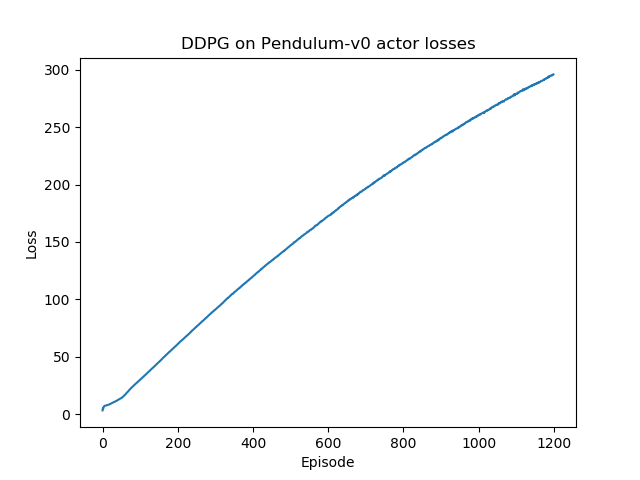
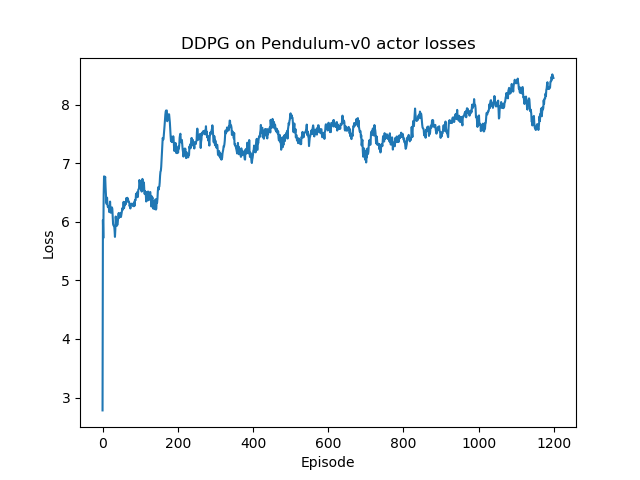
adding back in epsilon exploration

diff --git a/ddpg.swift b/ddpg.swift
@@ -269,41 +269,37 @@ class ActorCritic {
     stateSize: Int,
     actionSize: Int,
     critic_lr: Float = 0.0001,
-    actor_lr: Float = 0.00001,
+    actor_lr: Float = 0.0001,
     gamma: Float = 0.95) {
       self.actor_network = actor
       self.critic_network = critic
       self.target_critic_network = critic_target
       self.target_actor_network = actor_target
       self.gamma = gamma
-      self.action_noise = GaussianNoise(standardDeviation: 0.2)
-      // self.lr = learning_rate
+      self.action_noise = GaussianNoise(standardDeviation: 0.0)
       self.state_size = stateSize
       self.action_size = actionSize
       self.actor_optimizer = Adam(for: self.actor_network, learningRate: actor_lr)
       self.critic_optimizer = Adam(for: self.critic_network, learningRate: critic_lr)
-      self.replayBuffer = ReplayBuffer(capacity: 5000, combined: false)
+      self.replayBuffer = ReplayBuffer(capacity: 1500, combined: false)
   }
 
   func remember(state: Tensor<Float>, action: Tensor<Float>, reward: Tensor<Float>, next_state: Tensor<Float>, dones: Tensor<Bool>) {
     self.replayBuffer.append(state:state, action:action, reward:reward, nextState:next_state, isDone:dones)
   }
 
-  func get_action(state: Tensor<Float>, env: TensorFlowEnvironmentWrapper, training: Bool, random_sample: Bool = false) -> Tensor<Float> {
-    if random_sample {
-      let action = env.action_sample()
-      return action
+  func get_action(state: Tensor<Float>, env: TensorFlowEnvironmentWrapper, training: Bool) -> Tensor<Float> {
+
+    let tfState = Tensor<Float>(numpy: np.expand_dims(state.makeNumpyArray(), axis: 0))!
+    let net_action: Tensor<Float> = self.actor_network(tfState)
+    if training {
+      let noisy_action = withoutDerivative(at: self.action_noise(net_action))
+      let action = noisy_action.clipped(min:-2.0, max:2.0)
+      return action[0]
     } else {
-      let tfState = Tensor<Float>(numpy: np.expand_dims(state.makeNumpyArray(), axis: 0))!
-      let net_action: Tensor<Float> = self.actor_network(tfState)
-      if training {
-        let noisy_action = withoutDerivative(at: self.action_noise(net_action))
-        let action = noisy_action.clipped(min:-2.0, max:2.0)
-        return action[0]
-      } else {
-        return net_action[0]
-      }
+      return net_action[0]
     }
+
   }
 
   func train_actor_critic(batchSize: Int, iterationNum: Int) -> (Float, Float) {
@@ -311,29 +307,25 @@ class ActorCritic {
     let (states, actions, rewards, nextstates, dones) = self.replayBuffer.sample(batchSize: batchSize)
     //train critic
     let(critic_loss, critic_gradients) = valueWithGradient(at: critic_network) { critic_network -> Tensor<Float> in
-      let npFullIndices = np.stack(
-        [np.arange(batchSize, dtype: np.int32)], axis: 1)
-      let tfFullIndices = Tensor<Int32>(numpy: npFullIndices)!
-      let predicted_q_values = critic_network([states, actions])
-      let predicted_q_values_batch = predicted_q_values.dimensionGathering(atIndices: tfFullIndices)
-
-      //let target_actions = self.target_actor_network(nextstates)
-      let next_state_q_values = withoutDerivative(at: self.target_critic_network([nextstates, self.target_actor_network(nextstates)]))
-      let target_q_values: Tensor<Float> = rewards + self.gamma * (1 - Tensor<Float>(dones)) * next_state_q_values
-      let td_error: Tensor<Float> = target_q_values - predicted_q_values_batch
-      let td_loss: Tensor<Float> = 0.5*pow(td_error, 2)
-      return td_loss.mean()
+      let predicted_q_values = critic_network([states, actions]).flattened()
+      //get target q values from target critic network
+      let next_state_q_values: Tensor<Float> = self.target_critic_network([nextstates, self.target_actor_network(nextstates)]).flattened()
+      let target_q_values: Tensor<Float> = withoutDerivative(at: rewards + self.gamma * (1 - Tensor<Float>(dones)) * next_state_q_values)
+      //let td_error: Tensor<Float> = target_q_values - predicted_q_values
+      let td_error: Tensor<Float> = squaredDifference(target_q_values, predicted_q_values)
+      let td_loss: Tensor<Float> = td_error.mean()
+      //let td_loss: Tensor<Float> = 0.5*pow(td_error, 2)
+      return td_loss
       //return huberLoss(predicted: predicted_q_values_batch, expected: target_q_values, delta: 2.5).mean()
     }
     self.critic_optimizer.update(&self.critic_network, along: critic_gradients)
     //train actor
     let(actor_loss, actor_gradients) = valueWithGradient(at: actor_network) { actor_network -> Tensor<Float> in
         let next_actions = actor_network(states)
-        let critic_q_values = self.critic_network([states, next_actions]).mean()
-        let loss: Tensor<Float> = -1.0 * critic_q_values
+        let critic_q_values: Tensor<Float> = -1.0 * self.critic_network([states, next_actions]).flattened()
+        let loss: Tensor<Float> = critic_q_values.mean()
         return loss
     }
-    //print(actor_gradients)
     self.actor_optimizer.update(&self.actor_network, along: actor_gradients)
     return (actor_loss.scalarized(), critic_loss.scalarized())
   }
@@ -381,14 +373,15 @@ class ActorCritic {
 func ddpg(actor_critic: ActorCritic, env: TensorFlowEnvironmentWrapper,
           maxEpisodes: Int = 1000, batchSize: Int = 32,
           stepsPerEpisode: Int = 300, tau: Float = 0.001,
-          update_every: Int = 10, epsilonStart: Float = 0.99,
+          update_every: Int = 1, epsilonStart: Float = 0.99,
           epsilonEnd:Float = 0.01, epsilonDecay: Float = 1000) ->([Float], [Float], [Float]) {
     var totalRewards: [Float] = []
     var actor_losses: [Float] = []
     var critic_losses: [Float] = []
     var bestReward: Float = -99999999.0
-    var sample_random_action: Bool = true
-    let sampling_episodes: Int = maxEpisodes / 8
+    //var sample_random_action: Bool = true
+    let training: Bool = true
+    //let sampling_episodes: Int = 100
     actor_critic.updateCriticTargetNetwork(tau: 1.0)
     actor_critic.updateActorTargetNetwork(tau: 1.0)
     for i in 0..<maxEpisodes {
@@ -396,28 +389,39 @@ func ddpg(actor_critic: ActorCritic, env: TensorFlowEnvironmentWrapper,
       var state = env.reset()
       print(state)
       //sample random actions for the first few episodes, then start using actor network w/ noise
-
-      if i > sampling_episodes {
-        sample_random_action = false
-      }
+      // if i == sampling_episodes {
+      //   print("Finished Warmup Episodes")
+      //   print("Starting Training")
+      // }
+      // if i == sampling_episodes {
+      //   sample_random_action = false
+      //   training = true
+      // }
       var totalReward: Float = 0
       var totalActorLoss: Float = 0
       var totalCriticLoss: Float = 0
       var totalTrainingSteps: Int = 0
+      let epsilon: Float
+      if i > 20 {
+        //epsilon decay
+        epsilon = epsilonEnd + (epsilonStart - epsilonEnd) * exp(-1.0 * Float(i) / epsilonDecay)
+      } else {
+        epsilon = epsilonStart
+      }
       for j in 0..<stepsPerEpisode {
-        // let epsilon: Float
-        // if j > 10 {
-        //   //epsilon decay
-        //   epsilon = epsilonEnd + (epsilonStart - epsilonEnd) * exp(-1.0 * Float(i) / epsilonDecay)
-        // } else {
-        //   epsilon = epsilonStart
-        // }
+
+        var action: Tensor<Float>
         //Sample random action or take action from actor depending on epsilon
-        let action = actor_critic.get_action(state: state, env: env, training: true, random_sample: sample_random_action)
+        if Float(np.random.uniform()).unwrapped() < epsilon  {
+          action = env.action_sample()
+        } else {
+          action = actor_critic.get_action(state: state, env: env, training: true)
+        }
         let(nextState, reward, isDone, _) = env.step(action)
         totalReward += reward.scalarized()
         //add (s, a, r, s') to actor_critic's replay buffer
         actor_critic.remember(state:state, action:action, reward:reward, next_state:nextState, dones:isDone)
+
         if actor_critic.replayBuffer.count > batchSize {
           totalTrainingSteps += 1
           //Train Actor and Critic Networks
@@ -426,30 +430,23 @@ func ddpg(actor_critic: ActorCritic, env: TensorFlowEnvironmentWrapper,
           totalCriticLoss += critic_loss
         }
 
-        // if j % update_every == 0 {
-        //   actor_critic.updateCriticTargetNetwork(tau: tau)
-        //   actor_critic.updateActorTargetNetwork(tau: tau)
-        // }
-
         state = nextState
       }
-      if i % update_every == 0 {
-          actor_critic.updateCriticTargetNetwork(tau: tau)
-          actor_critic.updateActorTargetNetwork(tau: tau)
-        }
       if totalReward > bestReward {
         bestReward = totalReward
       }
       totalRewards.append(totalReward)
-      let avgActorLoss: Float = totalActorLoss/Float(totalTrainingSteps)
-      let avgCriticLoss: Float = totalCriticLoss/Float(totalTrainingSteps)
-      actor_losses.append(avgActorLoss)
-      critic_losses.append(avgCriticLoss)
-      print(String(format: "Episode: %4d | Total Reward %.03f | Best Reward: %.03f | Avg. Actor Loss: %.03f | Avg. Critic Loss: %.03f",
+      if training {
+        if i % update_every == 0 {
+          actor_critic.updateCriticTargetNetwork(tau: tau)
+          actor_critic.updateActorTargetNetwork(tau: tau)
+        }
+        let avgActorLoss: Float = totalActorLoss/Float(totalTrainingSteps)
+        let avgCriticLoss: Float = totalCriticLoss/Float(totalTrainingSteps)
+        actor_losses.append(avgActorLoss)
+        critic_losses.append(avgCriticLoss)
+        print(String(format: "Episode: %4d | Total Reward %.03f | Best Reward: %.03f | Avg. Actor Loss: %.03f | Avg. Critic Loss: %.03f",
         i, totalReward, bestReward, avgActorLoss, avgCriticLoss))
-      if bestReward > -200 {
-        print("Solved in \(i) episodes")
-        break
       }
     }
     print("Finished Training")
@@ -473,7 +470,7 @@ func evaluate_agent(agent: ActorCritic, env: TensorFlowEnvironmentWrapper, num_s
   }
   env.originalEnv.close()
   let frame_np_array = np.array(frames)
-  np.save("results/ddpg_pendulum_frames_5.npy", frame_np_array)
+  np.save("results/ddpg_pendulum_frames_6.npy", frame_np_array)
   print("\n Total Reward: \(totalReward)")
 }
 
@@ -482,10 +479,10 @@ func evaluate_agent(agent: ActorCritic, env: TensorFlowEnvironmentWrapper, num_s
 let env = TensorFlowEnvironmentWrapper(gym.make("Pendulum-v0"))
 env.set_environment_seed(seed:1001)
 let max_action: Float = 2.0
-let actor_net: ActorNetwork = ActorNetwork(observationSize: 3, actionSize: 1, hiddenLayerSizes: [400, 300], maximum_action:max_action)
-let actor_target: ActorNetwork = ActorNetwork(observationSize: 3, actionSize: 1, hiddenLayerSizes: [400, 300])
-let critic_net: CriticNetwork = CriticNetwork(state_size: 3, action_size: 1, hiddenLayerSizes: [400, 300], outDimension: 1)
-let critic_target: CriticNetwork = CriticNetwork(state_size: 3, action_size: 1, hiddenLayerSizes: [400, 300], outDimension: 1)
+let actor_net: ActorNetwork = ActorNetwork(observationSize: 3, actionSize: 1, hiddenLayerSizes: [200, 100], maximum_action:max_action)
+let actor_target: ActorNetwork = ActorNetwork(observationSize: 3, actionSize: 1, hiddenLayerSizes: [200, 100])
+let critic_net: CriticNetwork = CriticNetwork(state_size: 3, action_size: 1, hiddenLayerSizes: [200, 100], outDimension: 1)
+let critic_target: CriticNetwork = CriticNetwork(state_size: 3, action_size: 1, hiddenLayerSizes: [200, 100], outDimension: 1)
 let actor_critic: ActorCritic = ActorCritic(actor: actor_net,
                                             actor_target: actor_target,
                                             critic: critic_net,
@@ -497,7 +494,8 @@ let(totalRewards, actor_losses, critic_losses)
         env: env,
         maxEpisodes: 1200,
         stepsPerEpisode: 200,
-        tau: 0.001,
+        tau: 0.005,
+        update_every: 4,
         epsilonStart: 0.95,
         epsilonDecay: 4000)
 evaluate_agent(agent: actor_critic, env: env, num_steps: 200)
@@ -507,7 +505,7 @@ plt.plot(totalRewards)
 plt.title("DDPG on Pendulum-v0 Rewards")
 plt.xlabel("Episode")
 plt.ylabel("Total Reward")
-plt.savefig("results/pendulum-ddpgreward-5.png")
+plt.savefig("results/pendulum-ddpgreward-6.png")
 plt.clf()
 
 // Save smoothed learning curve
@@ -519,7 +517,7 @@ plt.plot(smoothedEpisodeReturns)
 plt.title("DDPG on Pendulum-v0 Smoothed Rewards")
 plt.xlabel("Episode")
 plt.ylabel("Smoothed Episode Reward")
-plt.savefig("results/pendulum-ddpgsmoothedreward-5.png")
+plt.savefig("results/pendulum-ddpgsmoothedreward-6.png")
 plt.clf()
 
 //save actor and critic losses
@@ -527,7 +525,7 @@ plt.plot(critic_losses)
 plt.title("DDPG on Pendulum-v0 critic losses")
 plt.xlabel("Episode")
 plt.ylabel("TD Loss")
-plt.savefig("results/ddpg-critic-losses-5.png")
+plt.savefig("results/ddpg-critic-losses-6.png")
 plt.clf()
 
 
@@ -535,5 +533,5 @@ plt.plot(actor_losses)
 plt.title("DDPG on Pendulum-v0 actor losses")
 plt.xlabel("Episode")
 plt.ylabel("Loss")
-plt.savefig("results/ddpg-actor-losses-5.png")
+plt.savefig("results/ddpg-actor-losses-6.png")
 plt.clf()
